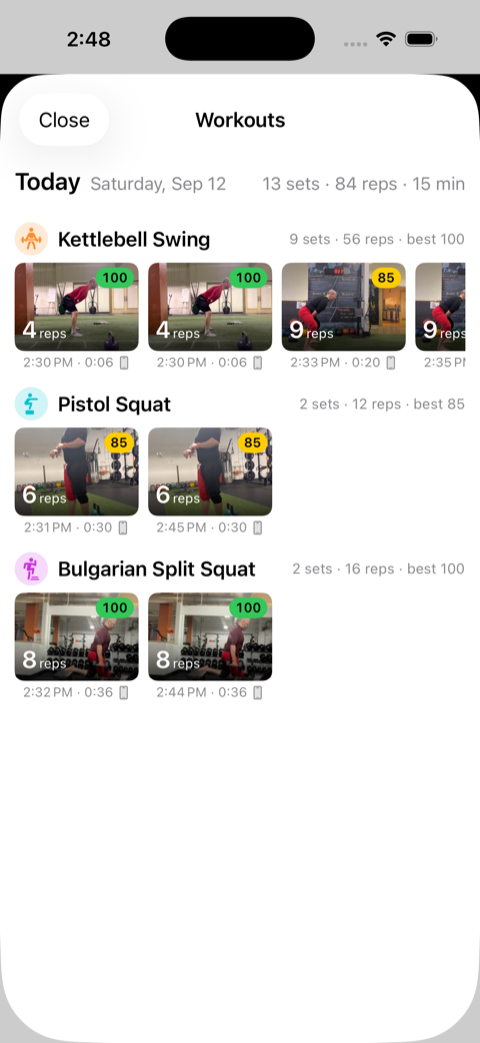
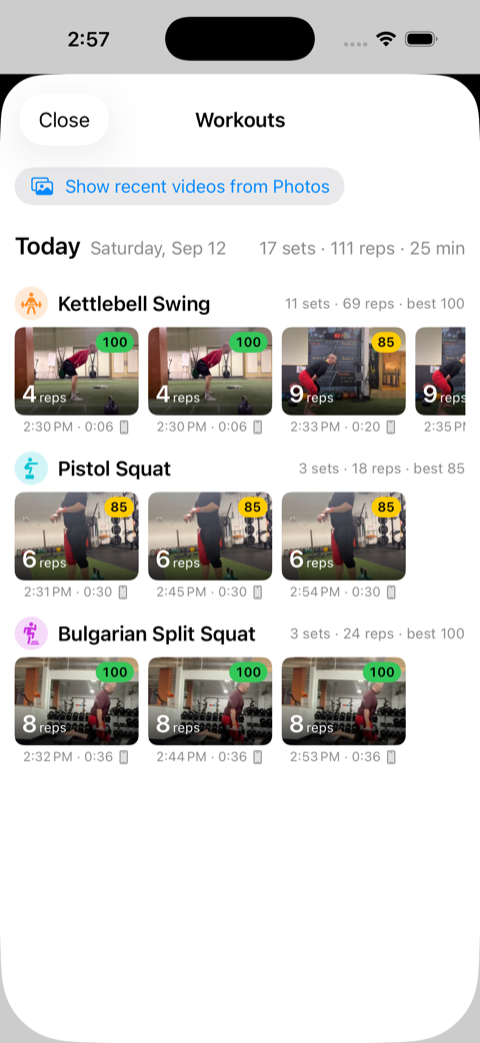
Workout gallery: "From Photos" strip of recent set-sized videos not yet analyzed (#8)
Videos from the last two weeks between 10 s and 10 min that are not in
Recents show at the top of the gallery; one tap opens them in place. When
Photos access is undetermined the row is a single "Show recent videos from
Photos" button. A photos_suggestions log event records the authorization
status and what the library returned. Verified on the simulator only up to
the permission dialog, which the simulator cannot answer from the command
line; the strip itself needs a look on the phone. Also: `just screenshots`.

Claude-Session: https://claude.ai/code/session_01NzfWosjYfGDkVuUgM91yER

diff --git a/ExerciseAnalyzer/PhotosSuggestions.swift b/ExerciseAnalyzer/PhotosSuggestions.swift
@@ -1,0 +1,138 @@
+// Ultralytics 🚀 AGPL-3.0 License - https://ultralytics.com/license
+
+//  "From Photos" (issue #8): recent videos in the library that look like sets (10 s to 10 min) and have not been
+//  analyzed yet, so the lifter does not have to hunt through the picker. Read-only; nothing is copied until a clip
+//  is opened, and then it is opened in place like the picker does.
+
+import Photos
+import SwiftUI
+
+@MainActor
+final class PhotosSuggestions: ObservableObject {
+  struct Clip: Identifiable {
+    let asset: PHAsset
+    var id: String { asset.localIdentifier }
+    var date: Date { asset.creationDate ?? Date.distantPast }
+    var duration: Double { asset.duration }
+  }
+
+  @Published private(set) var clips: [Clip] = []
+  @Published private(set) var status = PHPhotoLibrary.authorizationStatus(for: .readWrite)
+  /// Session log hook: what the library returned and why clips were or were not suggested.
+  var onEvent: ((String, [String: Any]) -> Void)?
+
+  private let imageManager = PHCachingImageManager()
+  private var thumbnails: [String: UIImage] = [:]
+
+  static let lookBack: TimeInterval = 14 * 24 * 3600
+  static let minDuration = 10.0
+  static let maxDuration = 10 * 60.0
+  static let limit = 12
+
+  /// Videos from the last two weeks that are set-sized and not already in `known` (Photos identifiers).
+  func refresh(excluding known: Set<String>) {
+    status = PHPhotoLibrary.authorizationStatus(for: .readWrite)
+    guard status == .authorized || status == .limited else {
+      clips = []
+      onEvent?("photos_suggestions", ["status": status.rawValue, "matched": 0, "shown": 0])
+      return
+    }
+    let options = PHFetchOptions()
+    options.predicate = NSPredicate(
+      format: "mediaType == %d AND creationDate >= %@ AND duration >= %f AND duration <= %f",
+      PHAssetMediaType.video.rawValue, Date().addingTimeInterval(-Self.lookBack) as NSDate,
+      Self.minDuration, Self.maxDuration)
+    options.sortDescriptors = [NSSortDescriptor(key: "creationDate", ascending: false)]
+    options.fetchLimit = Self.limit * 3
+    var found: [Clip] = []
+    let matched = PHAsset.fetchAssets(with: options)
+    matched.enumerateObjects { asset, _, stop in
+      if !known.contains(asset.localIdentifier) { found.append(Clip(asset: asset)) }
+      if found.count >= Self.limit { stop.pointee = true }
+    }
+    clips = found
+    let allVideos = PHAsset.fetchAssets(with: .video, options: nil)
+    let newest = (0..<min(allVideos.count, 3)).compactMap { allVideos.object(at: $0).creationDate?.description }
+    onEvent?(
+      "photos_suggestions",
+      [
+        "status": status.rawValue, "videos_in_library": allVideos.count, "matched": matched.count,
+        "already_analyzed": matched.count - found.count, "shown": found.count, "newest_dates": newest,
+      ])
+    imageManager.startCachingImages(
+      for: found.map(\.asset), targetSize: Self.thumbnailSize, contentMode: .aspectFill, options: nil)
+  }
+
+  func requestAccess() {
+    PHPhotoLibrary.requestAuthorization(for: .readWrite) { [weak self] _ in
+      Task { @MainActor in self?.refresh(excluding: []) }
+    }
+  }
+
+  static let thumbnailSize = CGSize(width: 208, height: 148)
+
+  func thumbnail(for clip: Clip, completion: @escaping (UIImage?) -> Void) {
+    if let cached = thumbnails[clip.id] {
+      completion(cached)
+      return
+    }
+    let options = PHImageRequestOptions()
+    options.deliveryMode = .opportunistic
+    options.isNetworkAccessAllowed = true
+    imageManager.requestImage(
+      for: clip.asset, targetSize: Self.thumbnailSize, contentMode: .aspectFill, options: options
+    ) { [weak self] image, _ in
+      Task { @MainActor in
+        if let image { self?.thumbnails[clip.id] = image }
+        completion(image)
+      }
+    }
+  }
+}
+
+/// Thumbnail card for a Photos video that has not been analyzed yet.
+struct PhotosClipCard: View {
+  let clip: PhotosSuggestions.Clip
+  @ObservedObject var suggestions: PhotosSuggestions
+  @State private var image: UIImage?
+
+  private static let timeFormatter: DateFormatter = {
+    let f = DateFormatter()
+    f.dateStyle = .short
+    f.timeStyle = .short
+    f.doesRelativeDateFormatting = true
+    return f
+  }()
+
+  var body: some View {
+    VStack(spacing: 3) {
+      ZStack(alignment: .bottomTrailing) {
+        Group {
+          if let image {
+            Image(uiImage: image).resizable().scaledToFill()
+          } else {
+            Color(.tertiarySystemFill)
+          }
+        }
+        .frame(width: 104, height: 74)
+        .clipped()
+        Text(Self.duration(clip.duration))
+          .font(.caption2.bold().monospacedDigit())
+          .padding(.horizontal, 5).padding(.vertical, 2)
+          .background(.black.opacity(0.6), in: Capsule())
+          .foregroundStyle(.white)
+          .padding(4)
+      }
+      .frame(width: 104, height: 74)
+      .clipShape(RoundedRectangle(cornerRadius: 8))
+      Text(Self.timeFormatter.string(from: clip.date)).font(.caption2).foregroundStyle(.secondary).lineLimit(1)
+    }
+    .onAppear { suggestions.thumbnail(for: clip) { image = $0 } }
+    .accessibilityLabel("Video from \(Self.timeFormatter.string(from: clip.date)), \(Self.duration(clip.duration)), not analyzed")
+  }
+
+  private static func duration(_ seconds: Double) -> String {
+    let total = Int(seconds.rounded())
+    return String(format: "%d:%02d", total / 60, total % 60)
+  }
+}

diff --git a/ExerciseAnalyzer/WorkoutGalleryView.swift b/ExerciseAnalyzer/WorkoutGalleryView.swift
@@ -10,18 +10,44 @@ import SwiftUI
 struct WorkoutGalleryView: View {
   @ObservedObject var store: RecentsStore
   let onOpen: (RecentEntry) -> Void
+  /// Opens a Photos video that has not been analyzed yet (identifier and creation date).
+  var onImport: ((String, Date?) -> Void)? = nil
+  var onEvent: ((String, [String: Any]) -> Void)? = nil
   @Environment(\.dismiss) private var dismiss
+  @StateObject private var suggestions = PhotosSuggestions()
+
+  private var knownPhotosIDs: Set<String> {
+    Set(store.entries.compactMap { entry -> String? in
+      if case .photos(let identifier) = entry.source { return identifier }
+      return nil
+    })
+  }
 
   var body: some View {
     NavigationStack {
       Group {
-        if store.entries.isEmpty {
+        if store.entries.isEmpty && suggestions.clips.isEmpty {
           ContentUnavailableView(
             "No workouts yet", systemImage: "figure.strengthtraining.traditional",
             description: Text("Record a set or open a video and it shows up here, grouped by day."))
         } else {
           ScrollView {
             LazyVStack(alignment: .leading, spacing: 14, pinnedViews: [.sectionHeaders]) {
+              if !suggestions.clips.isEmpty, let onImport {
+                PhotosSuggestionsRow(suggestions: suggestions) { clip in
+                  dismiss()
+                  onImport(clip.id, clip.asset.creationDate)
+                }
+              } else if suggestions.status == .notDetermined, onImport != nil {
+                Button {
+                  suggestions.requestAccess()
+                } label: {
+                  Label("Show recent videos from Photos", systemImage: "photo.on.rectangle")
+                    .font(.subheadline)
+                }
+                .buttonStyle(.bordered)
+                .padding(.top, 8)
+              }
               ForEach(WorkoutDay.group(store.entries)) { day in
                 Section {
                   ForEach(day.exercises) { exercise in
@@ -45,7 +71,45 @@ struct WorkoutGalleryView: View {
       .toolbar {
         ToolbarItem(placement: .cancellationAction) { Button("Close") { dismiss() } }
       }
+      .onAppear {
+        suggestions.onEvent = onEvent
+        suggestions.refresh(excluding: knownPhotosIDs)
+        // Test hook: ask for Photos access on open so a simulator run can answer the system dialog.
+        if ProcessInfo.processInfo.environment["SWING_PHOTOS_ACCESS"] == "1", suggestions.status == .notDetermined {
+          suggestions.requestAccess()
+        }
+      }
     }
+  }
+}
+
+/// Recent set-sized videos in Photos that have not been analyzed: one tap opens them in place.
+struct PhotosSuggestionsRow: View {
+  @ObservedObject var suggestions: PhotosSuggestions
+  let onImport: (PhotosSuggestions.Clip) -> Void
+
+  var body: some View {
+    VStack(alignment: .leading, spacing: 6) {
+      HStack(spacing: 8) {
+        Image(systemName: "photo.on.rectangle")
+          .font(.subheadline.bold())
+          .frame(width: 28, height: 28)
+          .background(Color.blue.opacity(0.15), in: Circle())
+          .foregroundStyle(.blue)
+        Text("From Photos").font(.headline)
+        Spacer(minLength: 8)
+        Text("\(suggestions.clips.count) not analyzed").font(.caption).foregroundStyle(.secondary)
+      }
+      ScrollView(.horizontal, showsIndicators: false) {
+        HStack(spacing: 8) {
+          ForEach(suggestions.clips) { clip in
+            PhotosClipCard(clip: clip, suggestions: suggestions)
+              .onTapGesture { onImport(clip) }
+          }
+        }
+      }
+    }
+    .padding(.top, 8)
   }
 }
 

diff --git a/ExerciseAnalyzer/VideoPoseSession.swift b/ExerciseAnalyzer/VideoPoseSession.swift
@@ -176,6 +176,19 @@ final class VideoPoseSession: NSObject, ObservableObject {
     Task { await analyzeAndPlay(url: url) }
   }
 
+  /// A Photos video chosen from the gallery's "From Photos" strip: opened in place by identifier.
+  func importPhotosAsset(identifier: String, recordedAt: Date?) async {
+    activity = .working("Opening", progress: nil)
+    guard let url = await RecentsStore.photosClipURL(identifier: identifier) else {
+      activity = .idle
+      statusMessage = "Couldn't open that video from Photos"
+      log.event("error", ["where": "photos_suggestion", "message": "no url for \(identifier)"])
+      return
+    }
+    log.event("import", ["url": url.lastPathComponent, "path": "photos_suggestion"])
+    load(url: url, origin: .photos(identifier: identifier), recordedAt: recordedAt)
+  }
+
   /// A clip picked from Photos. With library read access the asset is opened in place (no copy, so no dead
   /// time); otherwise the picker's copy is used and Recents keeps that file.
   func importPicked(item: PhotosPickerItem) async {

diff --git a/ExerciseAnalyzer/ContentView.swift b/ExerciseAnalyzer/ContentView.swift
@@ -102,7 +102,10 @@ struct ContentView: View {
       isPresented: $showPhotosPicker, selection: $pickerItem, matching: .videos,
       photoLibrary: .shared())
     .sheet(isPresented: $showRecents) {
-      WorkoutGalleryView(store: session.recents) { session.open(recent: $0) }
+      WorkoutGalleryView(
+        store: session.recents, onOpen: { session.open(recent: $0) },
+        onImport: { identifier, date in Task { await session.importPhotosAsset(identifier: identifier, recordedAt: date) } },
+        onEvent: { session.log.event($0, $1) })
     }
     .fileImporter(
       isPresented: $showFileImporter, allowedContentTypes: [.movie, .video, .mpeg4Movie]

diff --git a/docs/TESTING.md b/docs/TESTING.md
@@ -83,6 +83,8 @@ The simulator cannot be tapped from a script, so the app has **launch hooks** re
 | `SWING_AUTO_TRIM=1` | trim to the rep span right after the first analysis |
 | `SWING_OPEN_RECENT=1` | reopen the newest Recents entry |
 | `SWING_BUG=text` | file a bug report on launch |
+| `SWING_SHOW_WORKOUTS=1` | open the workout gallery on launch (screenshots) |
+| `SWING_PHOTOS_ACCESS=1` | ask for Photos access when the gallery opens (the simulator cannot be granted Photos access from the command line on iOS 26, so this dialog needs a hand) |
 
 Results are read from the **session log** (`Documents/logs/*.jsonl` in the app container), not the screen. The
 simulator runs the pose model on the CPU at roughly 20 fps, a tenth of the phone, so the script waits for the
